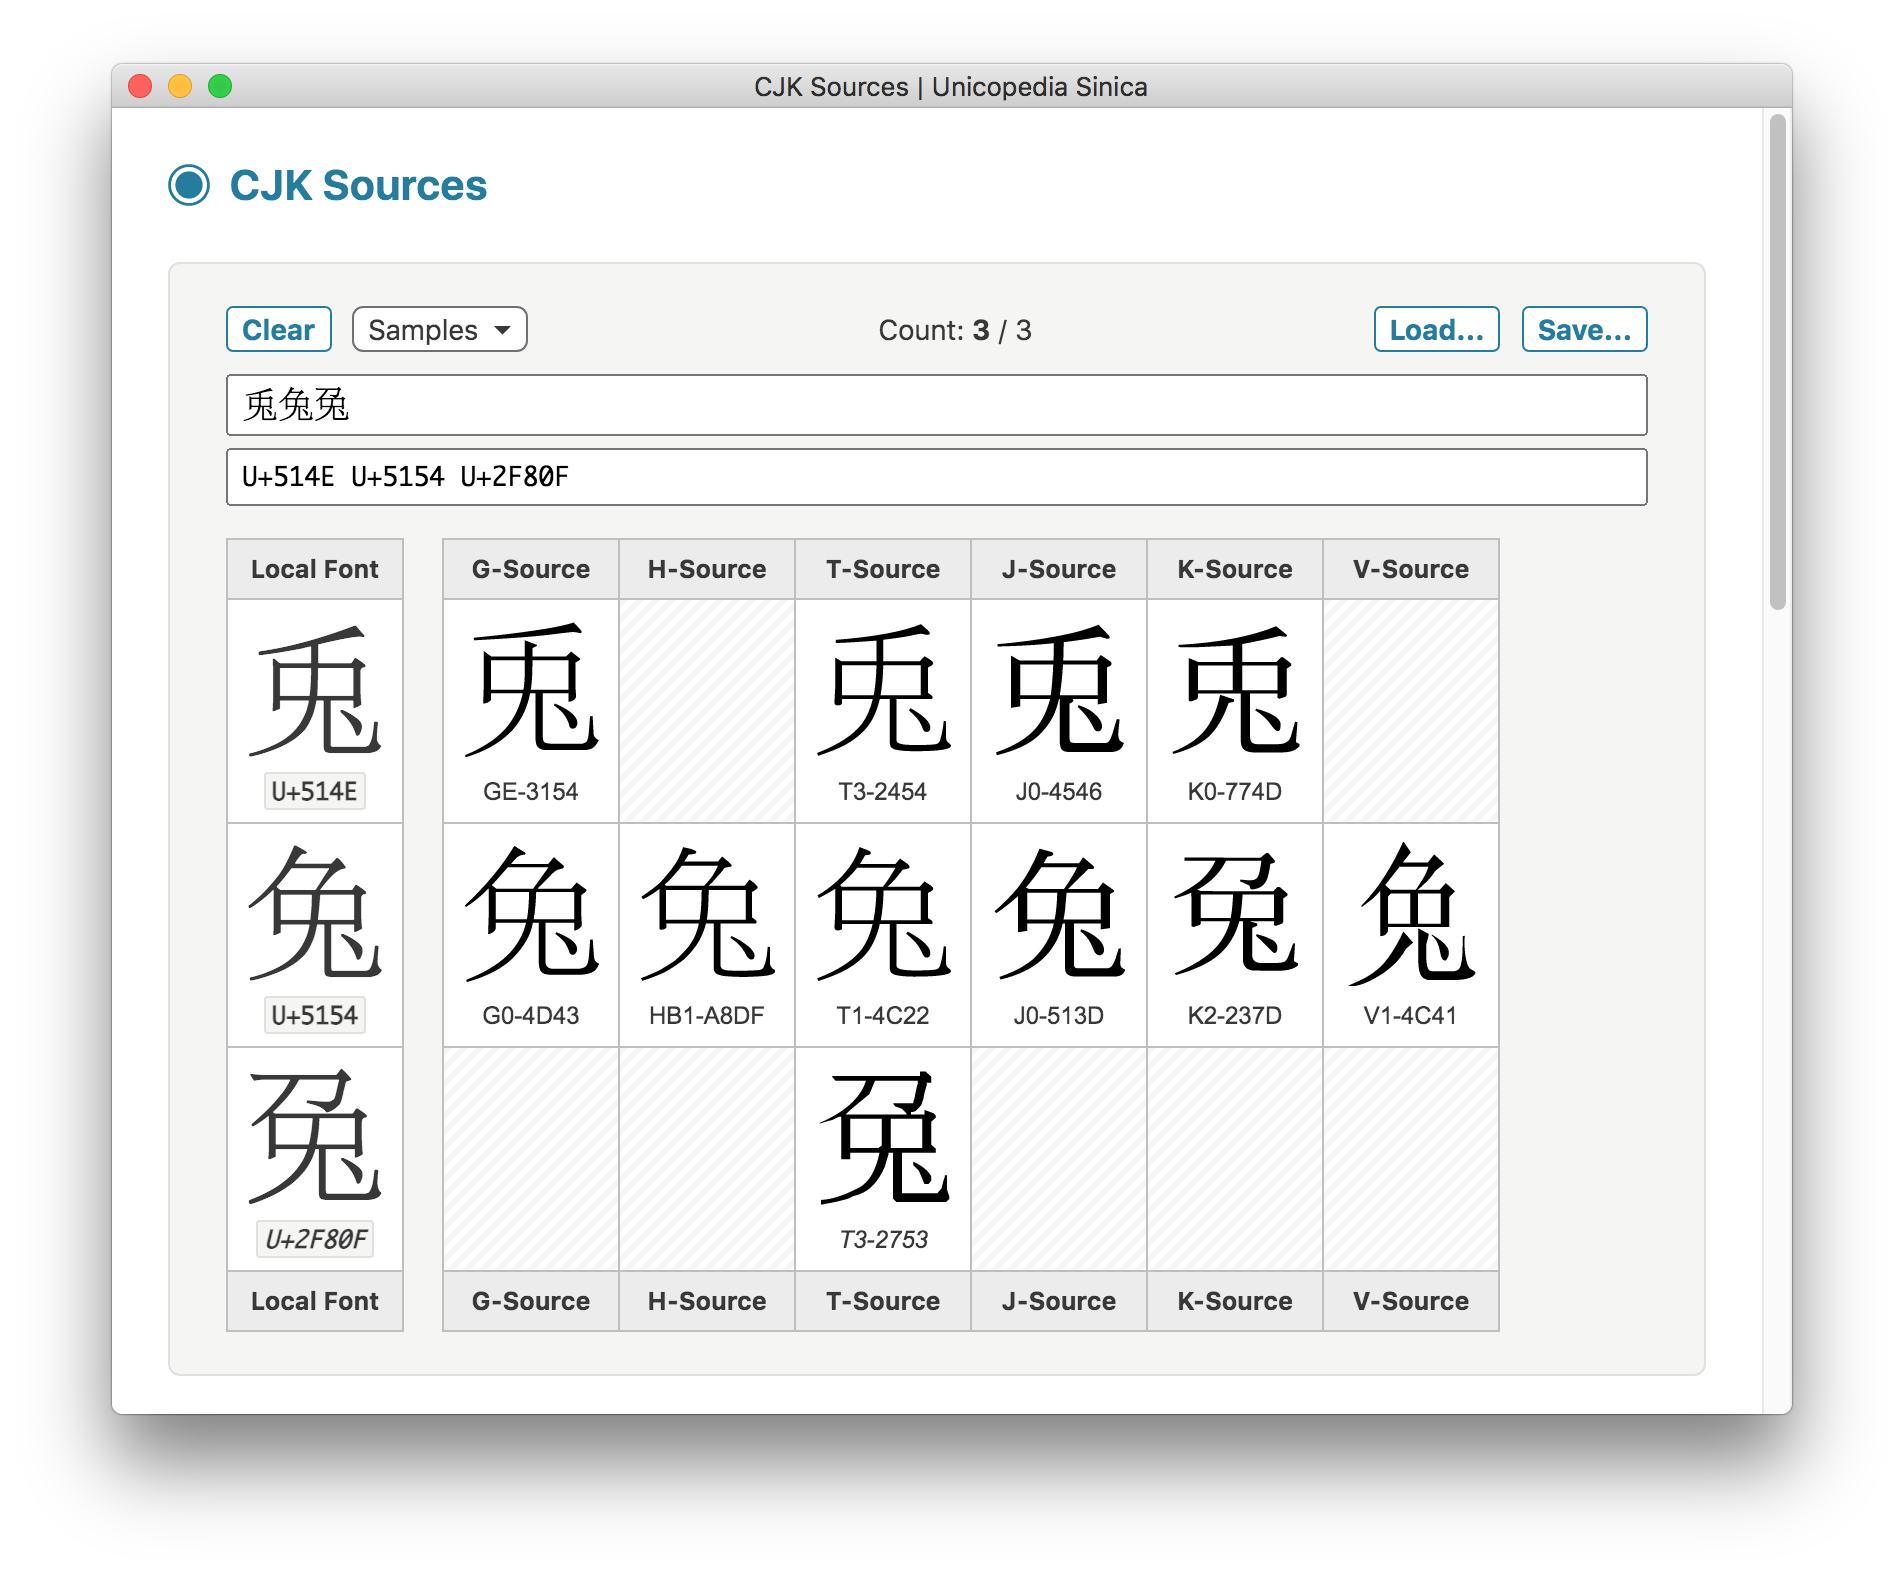
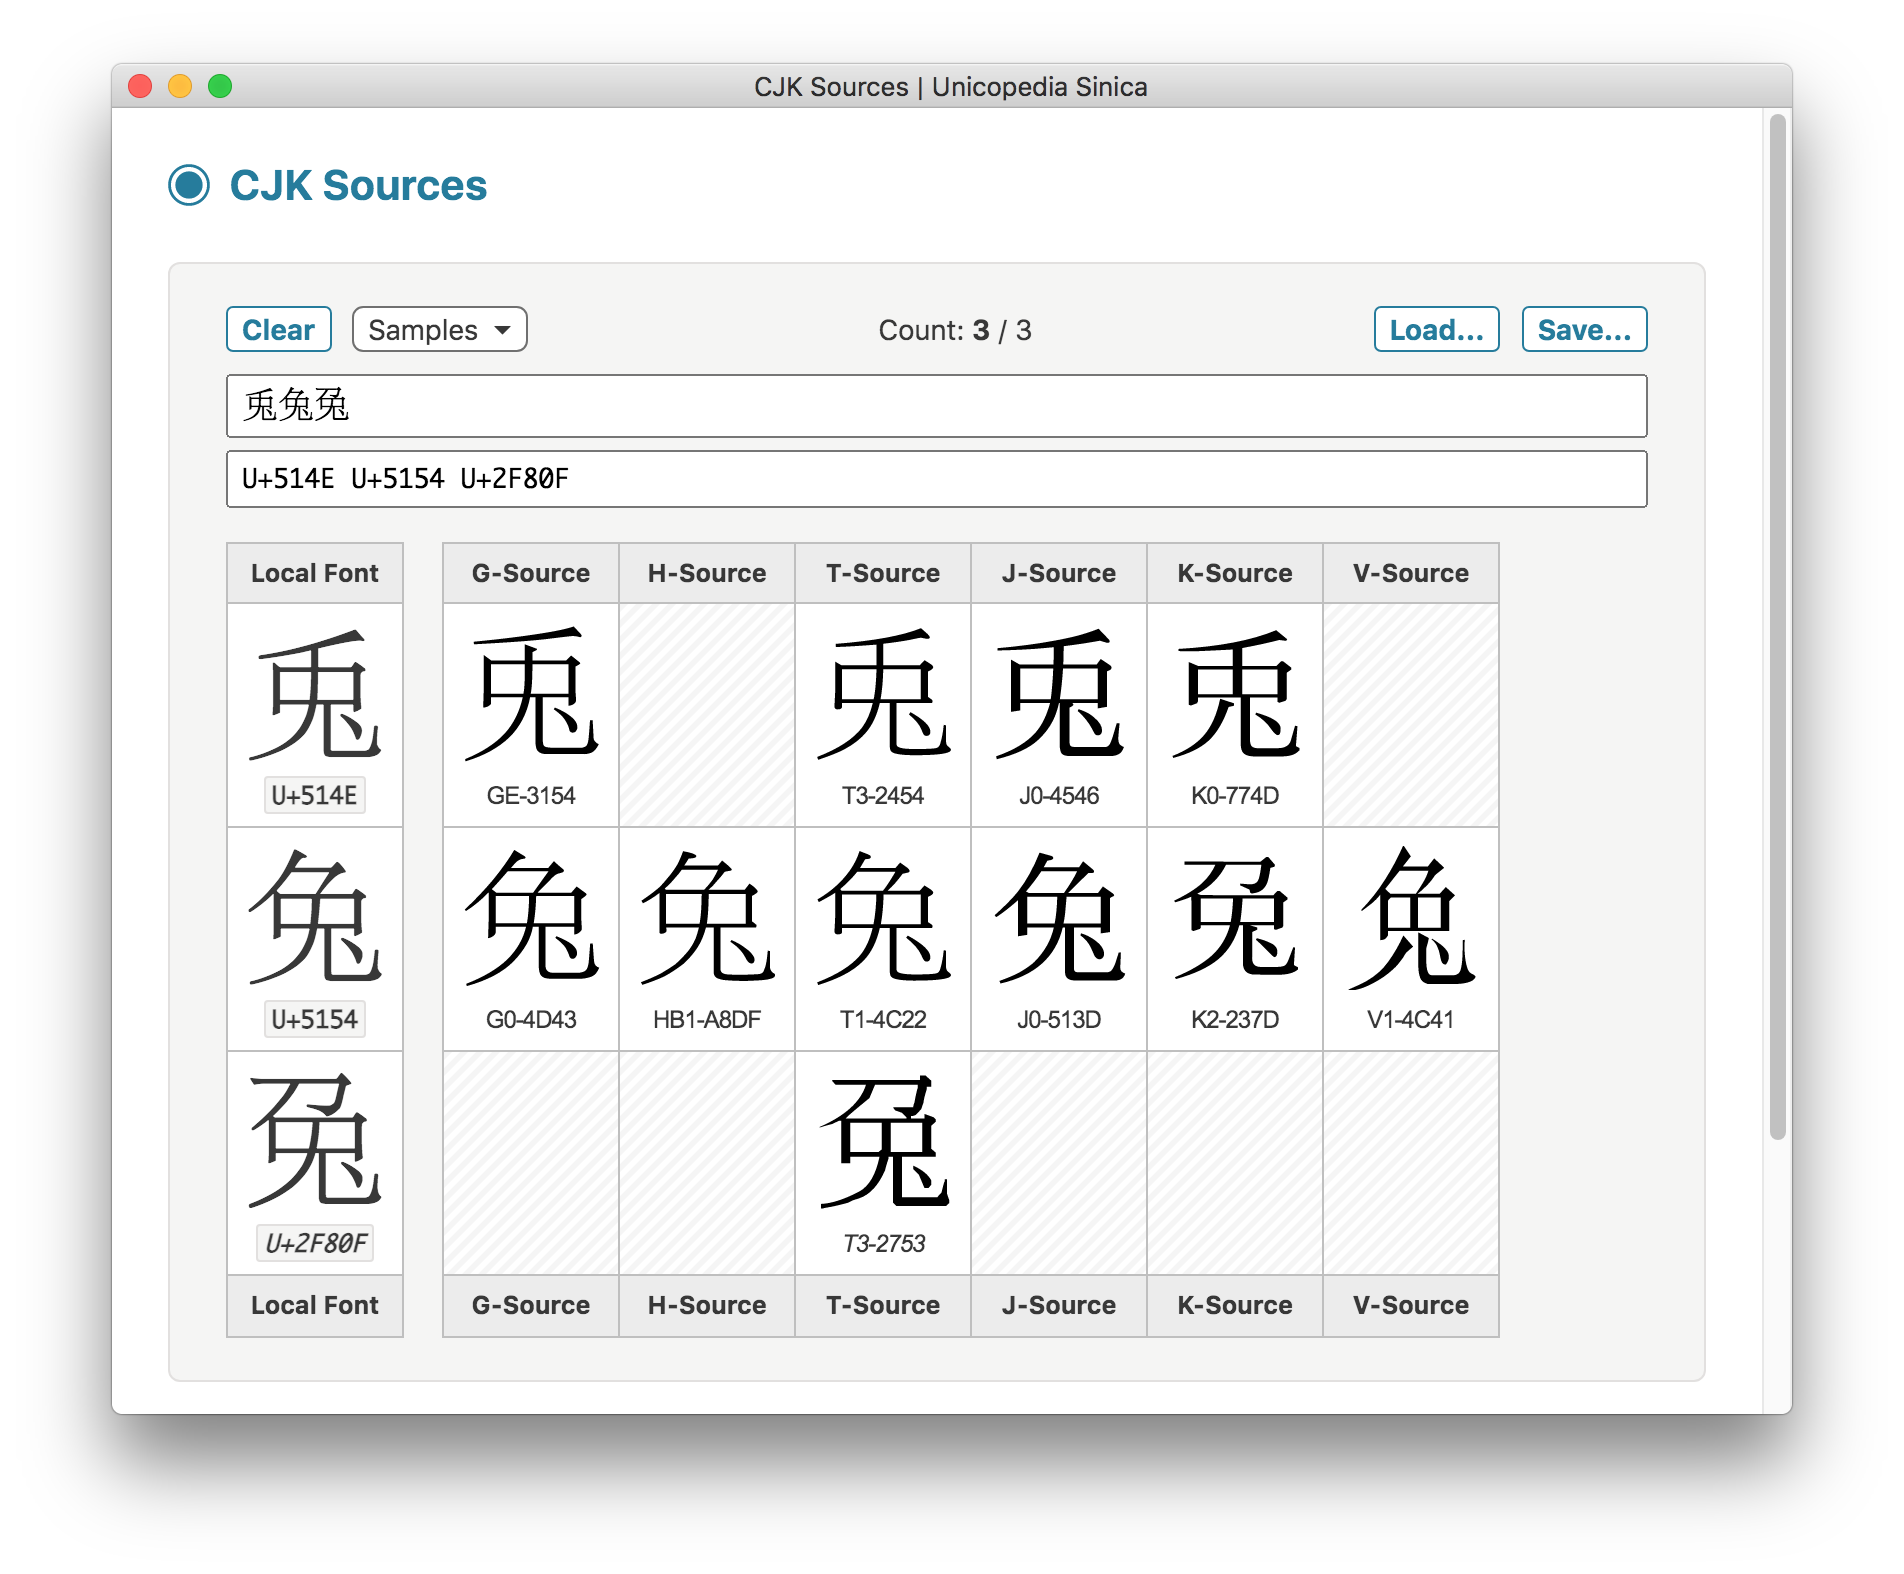
Updated app to 1.5.4

diff --git a/renderer/lib/unicode/parsed-extra-data.js b/renderer/lib/unicode/parsed-extra-data.js
@@ -10,7 +10,7 @@ let lines;
 let versions = [ ];
 //
 // Copy of https://www.unicode.org/Public/UNIDATA/DerivedAge.txt
-lines = fs.readFileSync (path.join (__dirname, 'UNIDATA', 'DerivedAge.txt'), { encoding: 'ascii' }).split ("\n");
+lines = fs.readFileSync (path.join (__dirname, 'UNIDATA', 'DerivedAge.txt'), { encoding: 'ascii' }).split (/\r?\n/);
 for (let line of lines)
 {
     if (line && (line[0] !== "#"))
@@ -26,7 +26,7 @@ for (let line of lines)
 let blocks = [ ];
 //
 // Copy of https://www.unicode.org/Public/UNIDATA/Blocks.txt
-lines = fs.readFileSync (path.join (__dirname, 'UNIDATA', 'Blocks.txt'), { encoding: 'ascii' }).split ("\n");
+lines = fs.readFileSync (path.join (__dirname, 'UNIDATA', 'Blocks.txt'), { encoding: 'ascii' }).split (/\r?\n/);
 for (let line of lines)
 {
     if (line && (line[0] !== "#"))
@@ -42,7 +42,7 @@ for (let line of lines)
 let extendedProperties = [ ];
 //
 // Copy of https://www.unicode.org/Public/UNIDATA/PropList.txt
-lines = fs.readFileSync (path.join (__dirname, 'UNIDATA', 'PropList.txt'), { encoding: 'ascii' }).split ("\n");
+lines = fs.readFileSync (path.join (__dirname, 'UNIDATA', 'PropList.txt'), { encoding: 'ascii' }).split (/\r?\n/);
 for (let line of lines)
 {
     if (line && (line[0] !== "#"))
@@ -58,7 +58,7 @@ for (let line of lines)
 let coreProperties = [ ];
 //
 // Copy of https://www.unicode.org/Public/UNIDATA/DerivedCoreProperties.txt
-lines = fs.readFileSync (path.join (__dirname, 'UNIDATA', 'DerivedCoreProperties.txt'), { encoding: 'ascii' }).split ("\n");
+lines = fs.readFileSync (path.join (__dirname, 'UNIDATA', 'DerivedCoreProperties.txt'), { encoding: 'ascii' }).split (/\r?\n/);
 for (let line of lines)
 {
     if (line && (line[0] !== "#"))
@@ -74,7 +74,7 @@ for (let line of lines)
 let emojiProperties = [ ];
 //
 // Copy of https://www.unicode.org/Public/14.0.0/ucd/emoji/emoji-data.txt
-lines = fs.readFileSync (path.join (__dirname, 'emoji', 'emoji-data.txt'), { encoding: 'utf8' }).split ("\n");
+lines = fs.readFileSync (path.join (__dirname, 'emoji', 'emoji-data.txt'), { encoding: 'utf8' }).split (/\r?\n/);
 for (let line of lines)
 {
     if (line && (line[0] !== "#"))
@@ -90,7 +90,7 @@ for (let line of lines)
 let scripts = [ ];
 //
 // Copy of https://www.unicode.org/Public/UNIDATA/Scripts.txt
-lines = fs.readFileSync (path.join (__dirname, 'UNIDATA', 'Scripts.txt'), { encoding: 'ascii' }).split ("\n");
+lines = fs.readFileSync (path.join (__dirname, 'UNIDATA', 'Scripts.txt'), { encoding: 'ascii' }).split (/\r?\n/);
 for (let line of lines)
 {
     if (line && (line[0] !== "#"))
@@ -106,7 +106,7 @@ for (let line of lines)
 let scriptExtensions = [ ];
 //
 // Copy of https://www.unicode.org/Public/UNIDATA/ScriptExtensions.txt
-lines = fs.readFileSync (path.join (__dirname, 'UNIDATA', 'ScriptExtensions.txt'), { encoding: 'ascii' }).split ("\n");
+lines = fs.readFileSync (path.join (__dirname, 'UNIDATA', 'ScriptExtensions.txt'), { encoding: 'ascii' }).split (/\r?\n/);
 for (let line of lines)
 {
     if (line && (line[0] !== "#"))
@@ -122,7 +122,7 @@ for (let line of lines)
 let equivalentUnifiedIdeographs = [ ];
 //
 // Copy of https://www.unicode.org/Public/UNIDATA/EquivalentUnifiedIdeograph.txt
-lines = fs.readFileSync (path.join (__dirname, 'UNIDATA', 'EquivalentUnifiedIdeograph.txt'), { encoding: 'ascii' }).split ("\n");
+lines = fs.readFileSync (path.join (__dirname, 'UNIDATA', 'EquivalentUnifiedIdeograph.txt'), { encoding: 'ascii' }).split (/\r?\n/);
 for (let line of lines)
 {
     if (line && (line[0] !== "#"))
@@ -138,7 +138,7 @@ for (let line of lines)
 let eastAsianWidths = [ ];
 //
 // Copy of https://www.unicode.org/Public/UNIDATA/EastAsianWidth.txt
-lines = fs.readFileSync (path.join (__dirname, 'UNIDATA', 'EastAsianWidth.txt'), { encoding: 'ascii' }).split ("\n");
+lines = fs.readFileSync (path.join (__dirname, 'UNIDATA', 'EastAsianWidth.txt'), { encoding: 'ascii' }).split (/\r?\n/);
 for (let line of lines)
 {
     if (line && (line[0] !== "#"))
@@ -154,7 +154,7 @@ for (let line of lines)
 let verticalOrientations = [ ];
 //
 // Copy of https://www.unicode.org/Public/UNIDATA/VerticalOrientation.txt
-lines = fs.readFileSync (path.join (__dirname, 'UNIDATA', 'VerticalOrientation.txt'), { encoding: 'ascii' }).split ("\n");
+lines = fs.readFileSync (path.join (__dirname, 'UNIDATA', 'VerticalOrientation.txt'), { encoding: 'ascii' }).split (/\r?\n/);
 for (let line of lines)
 {
     if (line && (line[0] !== "#"))
@@ -170,7 +170,7 @@ for (let line of lines)
 let lineBreaks = [ ];
 //
 // Copy of https://www.unicode.org/Public/UNIDATA/LineBreak.txt
-lines = fs.readFileSync (path.join (__dirname, 'UNIDATA', 'LineBreak.txt'), { encoding: 'ascii' }).split ("\n");
+lines = fs.readFileSync (path.join (__dirname, 'UNIDATA', 'LineBreak.txt'), { encoding: 'ascii' }).split (/\r?\n/);
 for (let line of lines)
 {
     if (line && (line[0] !== "#"))
@@ -185,7 +185,7 @@ for (let line of lines)
 let indicPositionalCategories = [ ];
 //
 // Copy of https://www.unicode.org/Public/UNIDATA/IndicPositionalCategory.txt
-lines = fs.readFileSync (path.join (__dirname, 'UNIDATA', 'IndicPositionalCategory.txt'), { encoding: 'ascii' }).split ("\n");
+lines = fs.readFileSync (path.join (__dirname, 'UNIDATA', 'IndicPositionalCategory.txt'), { encoding: 'ascii' }).split (/\r?\n/);
 for (let line of lines)
 {
     if (line && (line[0] !== "#"))
@@ -201,7 +201,7 @@ for (let line of lines)
 let indicSyllabicCategories = [ ];
 //
 // Copy of https://www.unicode.org/Public/UNIDATA/IndicSyllabicCategory.txt
-lines = fs.readFileSync (path.join (__dirname, 'UNIDATA', 'IndicSyllabicCategory.txt'), { encoding: 'ascii' }).split ("\n");
+lines = fs.readFileSync (path.join (__dirname, 'UNIDATA', 'IndicSyllabicCategory.txt'), { encoding: 'ascii' }).split (/\r?\n/);
 for (let line of lines)
 {
     if (line && (line[0] !== "#"))

diff --git a/renderer/lib/unicode/parsed-unicode-data.js b/renderer/lib/unicode/parsed-unicode-data.js
@@ -43,7 +43,7 @@ let lastIndex;
 let rangeName;
 //
 // Copy of https://www.unicode.org/Public/UNIDATA/UnicodeData.txt
-lines = fs.readFileSync (path.join (__dirname, 'UNIDATA', 'UnicodeData.txt'), { encoding: 'ascii' }).split ("\n");
+lines = fs.readFileSync (path.join (__dirname, 'UNIDATA', 'UnicodeData.txt'), { encoding: 'ascii' }).split (/\r?\n/);
 for (let line of lines)
 {
     if (line)
@@ -168,7 +168,7 @@ for (let line of lines)
 }
 //
 // Copy of https://www.unicode.org/Public/UNIDATA/NameAliases.txt
-lines = fs.readFileSync (path.join (__dirname, 'UNIDATA', 'NameAliases.txt'), { encoding: 'ascii' }).split ("\n");
+lines = fs.readFileSync (path.join (__dirname, 'UNIDATA', 'NameAliases.txt'), { encoding: 'ascii' }).split (/\r?\n/);
 for (let line of lines)
 {
     if (line && (line[0] !== "#"))
@@ -202,7 +202,7 @@ let foldingStatus =
 };
 //
 // Copy of https://www.unicode.org/Public/UNIDATA/CaseFolding.txt
-lines = fs.readFileSync (path.join (__dirname, 'UNIDATA', 'CaseFolding.txt'), { encoding: 'ascii' }).split ("\n");
+lines = fs.readFileSync (path.join (__dirname, 'UNIDATA', 'CaseFolding.txt'), { encoding: 'ascii' }).split (/\r?\n/);
 for (let line of lines)
 {
     if (line && (line[0] !== "#"))
@@ -236,7 +236,7 @@ function snakeCasify (string)
 }
 //
 // Copy of https://www.unicode.org/Public/UNIDATA/ArabicShaping.txt
-lines = fs.readFileSync (path.join (__dirname, 'UNIDATA', 'ArabicShaping.txt'), { encoding: 'ascii' }).split ("\n");
+lines = fs.readFileSync (path.join (__dirname, 'UNIDATA', 'ArabicShaping.txt'), { encoding: 'ascii' }).split (/\r?\n/);
 for (let line of lines)
 {
     if (line && (line[0] !== "#"))
@@ -253,7 +253,7 @@ for (let line of lines)
 }
 //
 // Copy of https://www.unicode.org/Public/UNIDATA/StandardizedVariants.txt
-lines = fs.readFileSync (path.join (__dirname, 'UNIDATA', 'StandardizedVariants.txt'), { encoding: 'ascii' }).split ("\n");
+lines = fs.readFileSync (path.join (__dirname, 'UNIDATA', 'StandardizedVariants.txt'), { encoding: 'ascii' }).split (/\r?\n/);
 for (let line of lines)
 {
     if (line && (line[0] !== "#"))

diff --git a/renderer/units/CJK Sources/import.js b/renderer/units/CJK Sources/import.js
@@ -474,7 +474,7 @@ module.exports.start = function (context)
                         let glyph = document.createElement ('div');
                         glyph.className = 'glyph';
                         let code = document.createElement ('div');
-                        code.className = 'code';
+                        code.className = 'source-code';
                         let codePoint = unicode.characterToCodePoint (character);
                         let sourceReference = null;
                         if (source.property in codePoints[codePoint])

diff --git a/renderer/units/CJK Sources/import.css b/renderer/units/CJK Sources/import.css
@@ -201,16 +201,16 @@
     cursor: default;
 }
 
-#cjk-sources-unit .sheet .table .code
+#cjk-sources-unit .sheet .table .source-code
 {
     color: var(--color);
     font-family: var(--sans-serif-family);
     font-size: 12px;
     line-height: 1.2em;
-    /* margin: -8px 0 6px 0; */
+    letter-spacing: -0.5px;
 }
 
-#cjk-sources-unit .sheet .table .compatibility .code
+#cjk-sources-unit .sheet .table .compatibility .source-code
 {
     font-style: italic;
 }

diff --git a/renderer/lib/unicode/parsed-xhtml-character-entities.js b/renderer/lib/unicode/parsed-xhtml-character-entities.js
@@ -12,7 +12,7 @@ let filenames = [ 'xhtml-lat1.ent', 'xhtml-special.ent', 'xhtml-symbol.ent' ];
 //
 for (let filename of filenames)
 {
-    let lines = fs.readFileSync (path.join (__dirname, 'DTD', filename), { encoding: 'utf8' }).split ("\n");
+    let lines = fs.readFileSync (path.join (__dirname, 'DTD', filename), { encoding: 'utf8' }).split (/\r?\n/);
     for (let line of lines)
     {
         if (line)

diff --git a/renderer/lib/unicode/parsed-cjk-radicals-data.js b/renderer/lib/unicode/parsed-cjk-radicals-data.js
@@ -14,7 +14,7 @@ const path = require ('path');
 //
 let radicalsData = { };
 //
-let lines = fs.readFileSync (path.join (__dirname, 'UNIDATA', 'CJKRadicals.txt'), { encoding: 'ascii' }).split ("\n");
+let lines = fs.readFileSync (path.join (__dirname, 'UNIDATA', 'CJKRadicals.txt'), { encoding: 'ascii' }).split (/\r?\n/);
 for (let line of lines)
 {
     if (line && (line[0] !== "#"))

diff --git a/renderer/lib/unicode/parsed-unihan-data.js b/renderer/lib/unicode/parsed-unihan-data.js
@@ -888,7 +888,7 @@ const codePoints = { };
 //
 for (let filename of filenames)
 {
-    let lines = fs.readFileSync (path.join (__dirname, 'Unihan', filename), { encoding: 'utf8' }).split ("\n");
+    let lines = fs.readFileSync (path.join (__dirname, 'Unihan', filename), { encoding: 'utf8' }).split (/\r?\n/);
     for (let line of lines)
     {
         if (line && (line[0] !== "#"))

diff --git a/CHANGES.md b/CHANGES.md
@@ -2,6 +2,11 @@
 
 This project adheres to [Semantic Versioning](https://semver.org/).
 
+## 1.5.4
+
+- Used Windows-compatible end-of-line markers when parsing data text files (BUG FIX).
+- Reduced letter spacing of alphanumeric source codes in the **CJK Sources** utility.
+
 ## 1.5.3
 
 - Updated reference links.
